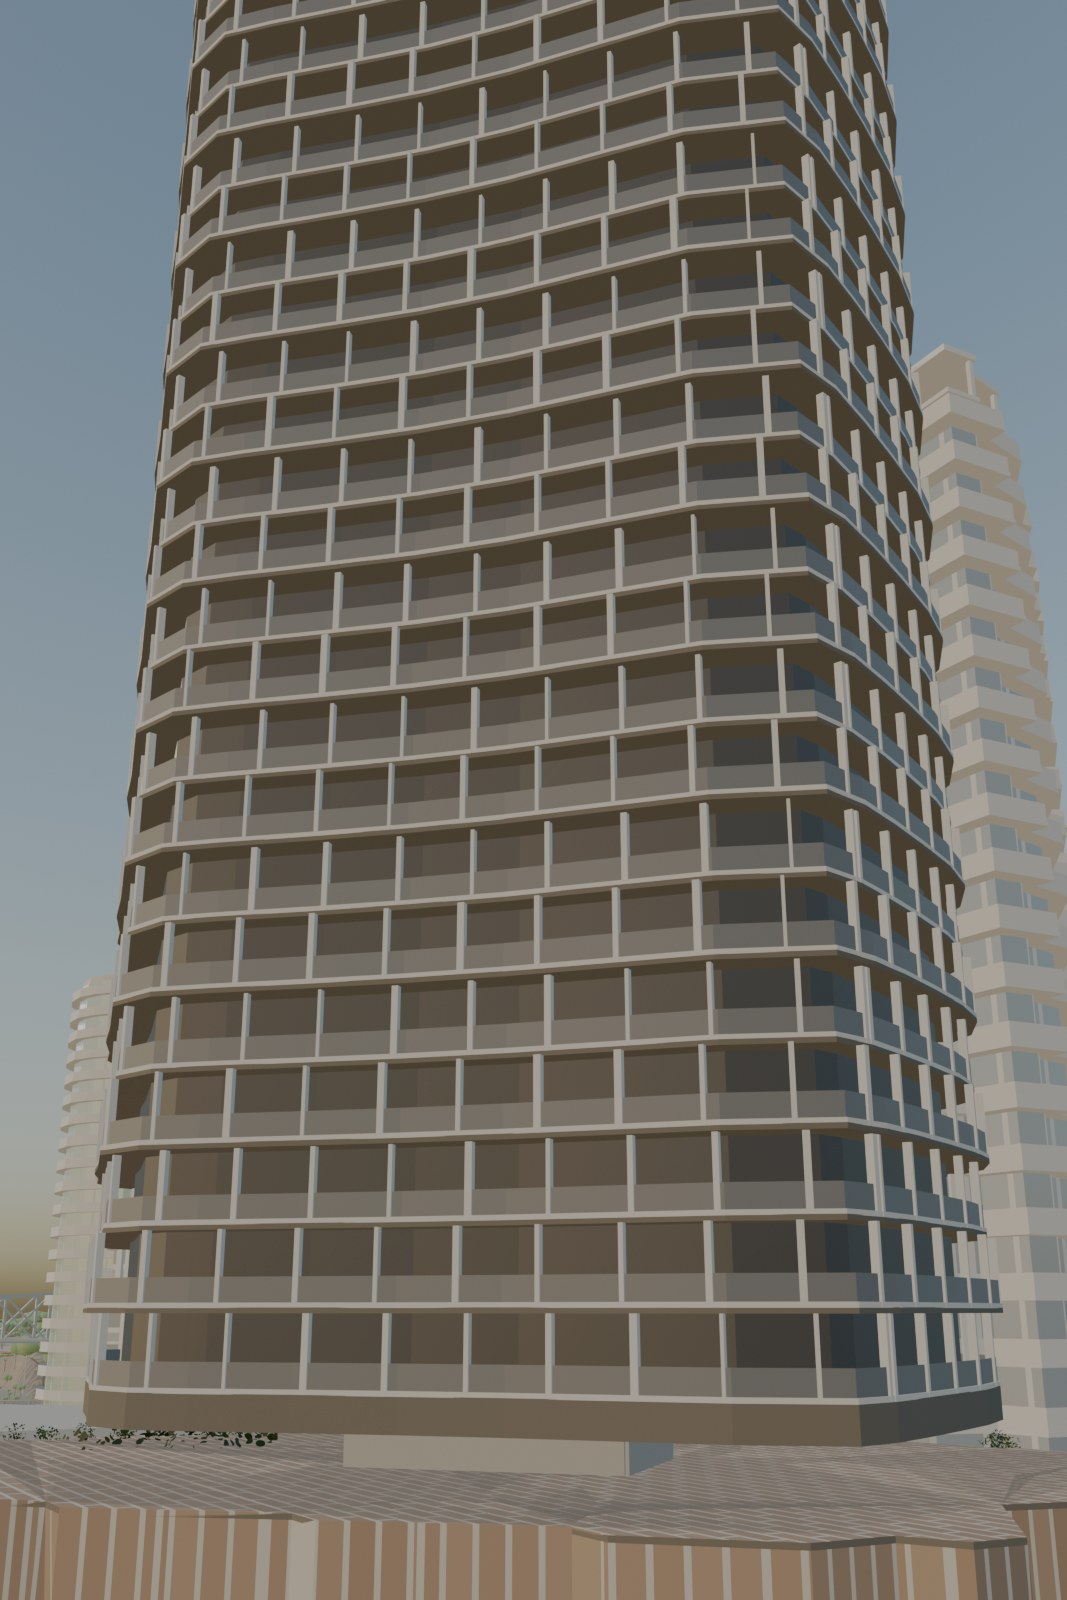
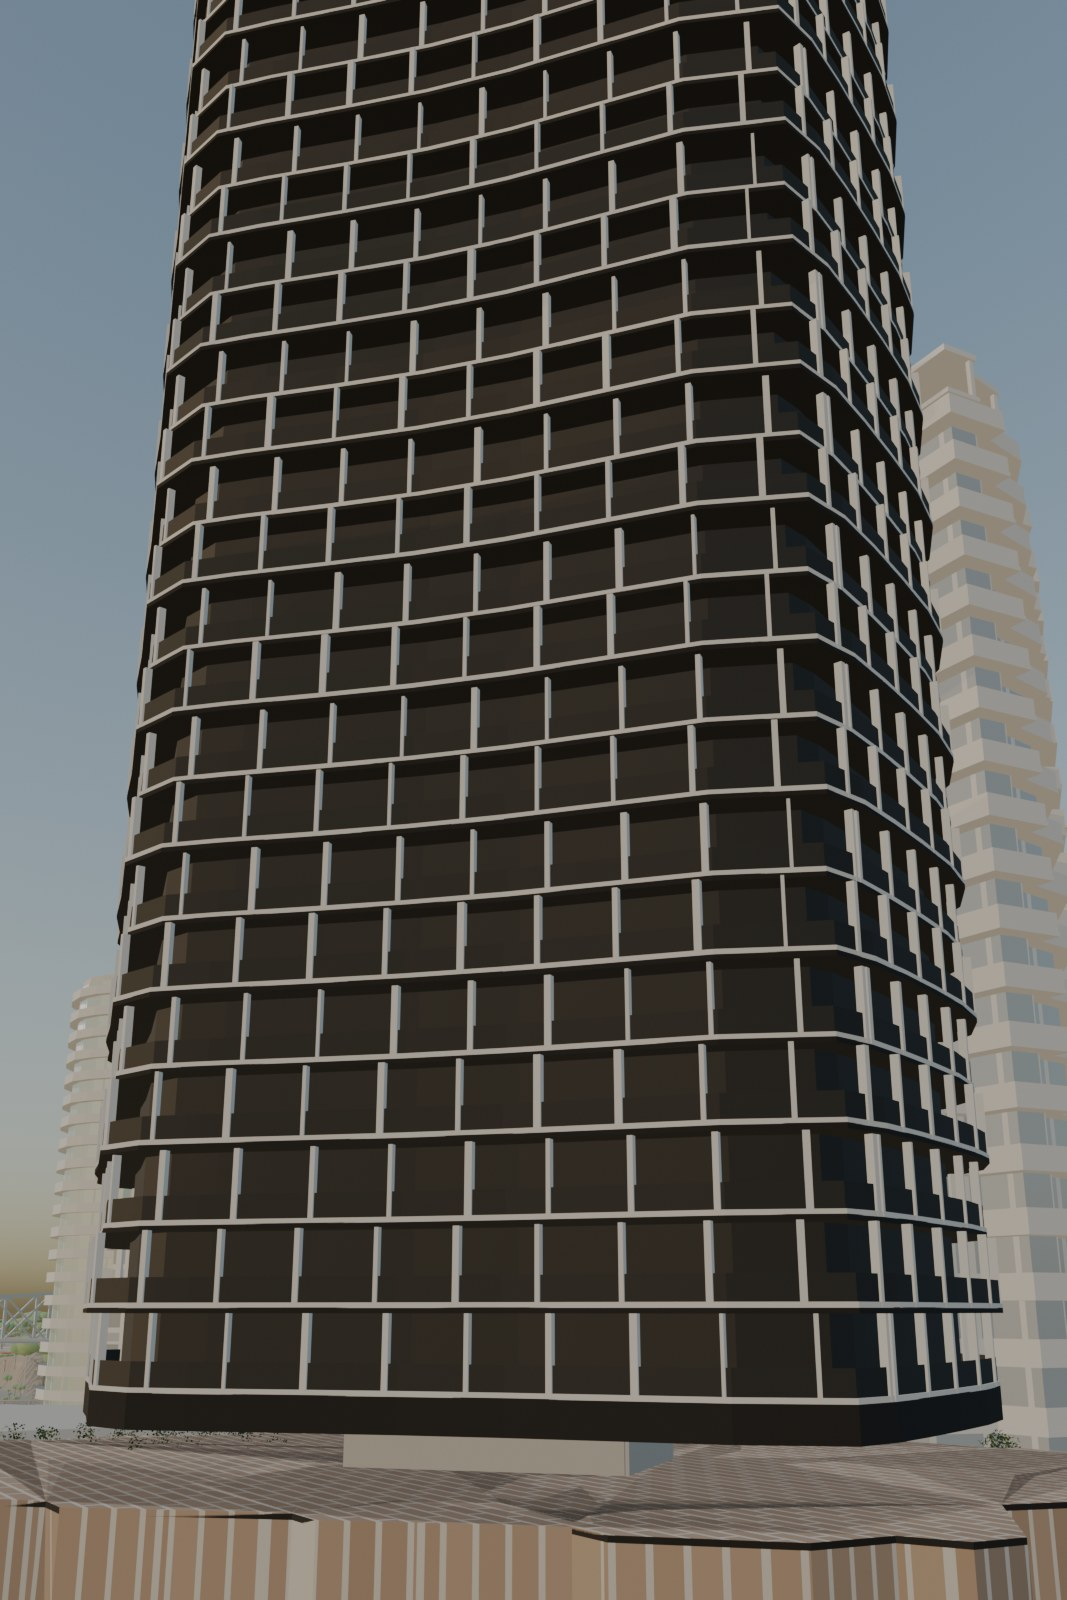
Spire step 7g: cathedral west-front photo pair, darker Spire glass and recesses, Mantra white render, real-size dense leaf clusters, round limbs

diff --git a/tools/blender/spire/trees.py b/tools/blender/spire/trees.py
@@ -40,7 +40,21 @@ def trunk(buf, x, y, g, r, h, branches=0, spread=1.0):
     seed = int(abs(x * 13.1 + y * 7.7)) % 360
     for b in range(branches):
         a = math.radians(seed + b * 360 / max(branches, 1))
-        buf.beam((x, y, g + h * 0.9), (x + math.cos(a) * spread, y + math.sin(a) * spread, g + h + spread * 0.6), r * 0.7)
+        tube(buf, (x, y, g + h * 0.9), (x + math.cos(a) * spread, y + math.sin(a) * spread, g + h + spread * 0.6), r * 0.45, r * 0.18)
+
+
+def tube(buf, p, q, r0, r1, n=8):
+    """Round tapered limb from p (radius r0) to q (radius r1)."""
+    d = [q[i] - p[i] for i in range(3)]
+    ln = math.sqrt(sum(c * c for c in d)) or 1e-6
+    d = [c / ln for c in d]
+    up = (0, 0, 1) if abs(d[2]) < 0.9 else (1, 0, 0)
+    s = [d[1] * up[2] - d[2] * up[1], d[2] * up[0] - d[0] * up[2], d[0] * up[1] - d[1] * up[0]]
+    sl = math.sqrt(sum(c * c for c in s))
+    s = [c / sl for c in s]
+    u = [s[1] * d[2] - s[2] * d[1], s[2] * d[0] - s[0] * d[2], s[0] * d[1] - s[1] * d[0]]
+    ring = lambda c, r: [tuple(c[i] + r * (math.cos(2 * math.pi * k / n) * s[i] + math.sin(2 * math.pi * k / n) * u[i]) for i in range(3)) for k in range(n)]
+    buf.add(ring(p, r0) + ring(q, r1), [[k, (k + 1) % n, n + (k + 1) % n, n + k] for k in range(n)])
 
 
 def crown(buf, x, y, zc, r, flat, lobes=5):
@@ -78,7 +92,7 @@ def species(x, y, h):
     return "generic"
 
 
-HERO_CENTRES = [(0.0, 0.0, 330.0), (-80.0, -100.0, 160.0)]   # leaf-card trees round Spire and the cathedral
+HERO_CENTRES = [(0.0, 0.0, 220.0), (-80.0, -100.0, 140.0)]   # leaf-card trees round Spire and the cathedral
 SPECIES_LEAF = {   # leaf colour pairs (dark, light) and trunk colour
     "fig": ((0.035, 0.09, 0.03), (0.09, 0.19, 0.06), (0.30, 0.27, 0.22)),
     "poinciana": ((0.07, 0.15, 0.04), (0.16, 0.28, 0.07), (0.28, 0.24, 0.20)),
@@ -136,7 +150,7 @@ def build():
             trunk(trunks, x, y, g + h * 0.4, 0.4, 0.1, 6, r * 0.6)
             cz = g + h - rz
             if near:
-                leaves["fig"].cloud((x, y, cz), (r, r, rz), int(150 + 6 * r * r), 1.5, shell=0.65, top_bias=0.3)
+                leaves["fig"].cloud((x, y, cz), (r, r, rz), int(5 * (150 + 6 * r * r)), 0.42, shell=0.35, top_bias=0.3)
             else:
                 crown(crowns, x, y, cz, r, 0.5, 6)
         elif s in ("jacaranda", "poinciana"):
@@ -144,8 +158,8 @@ def build():
             trunk(trunks, x, y, g, 0.25, h * 0.6, 4, r * 0.55)
             cz = g + h - rz
             if near:
-                leaves[s].cloud((x, y, cz), (r, r, rz), int(120 + 5 * r * r), 1.1, shell=0.75, top_bias=0.5)
-                blooms[s].cloud((x, y, cz + rz * 0.4), (r * 0.9, r * 0.9, rz * 0.6), int(25 + r * r), 0.8, shell=0.8, top_bias=0.8)
+                leaves[s].cloud((x, y, cz), (r, r, rz), int(6 * (120 + 5 * r * r)), 0.3, shell=0.55, top_bias=0.5)
+                blooms[s].cloud((x, y, cz + rz * 0.4), (r * 0.9, r * 0.9, rz * 0.6), int(5 * (25 + r * r)), 0.28, shell=0.8, top_bias=0.8)
             else:
                 crown(crowns, x, y, cz, r, 0.3, 5)
                 if s == "poinciana":
@@ -157,14 +171,14 @@ def build():
                 for k in range(4):                                          # open, clumpy crown
                     a = k * 1.7
                     leaves["eucalypt"].cloud((x + math.cos(a) * r * 0.6, y + math.sin(a) * r * 0.6, g + h - r * (0.6 + 0.3 * k % 2)),
-                                             (r * 0.5, r * 0.5, r * 0.4), 40, 0.9, shell=0.5)
+                                             (r * 0.5, r * 0.5, r * 0.4), 220, 0.32, shell=0.35)
             else:
                 crown(crowns, x + 0.3 * r, y, g + h - r, r, 0.9, 3)
         else:
             r = max(1.0, 0.26 * h)
             trunk(trunks, x, y, g, 0.18, max(0.5, h - 1.6 * r), 3, r * 0.5)
             if near:
-                leaves["generic"].cloud((x, y, g + h - r), (r, r, r * 0.85), int(70 + 8 * r * r), 0.9, shell=0.6, top_bias=0.2)
+                leaves["generic"].cloud((x, y, g + h - r), (r, r, r * 0.85), int(5 * (70 + 8 * r * r)), 0.32, shell=0.4, top_bias=0.2)
             else:
                 crown(crowns, x, y, g + h - r, r, 0.85, 4)
     objs = []

diff --git a/tools/blender/spire/common.py b/tools/blender/spire/common.py
@@ -49,10 +49,10 @@ COLOURS = {
     "rock": (0.52, 0.47, 0.42, 1),           # Kangaroo Point tuff: grey-brown
     "timber": (0.60, 0.48, 0.35, 1),
     "corten": (0.62, 0.32, 0.18, 1),
-    "spire_glass": (0.07, 0.075, 0.085, 1),    # dark glass (#2a2d31 in sRGB; linear here) / recessed balconies (photo sheet)
+    "spire_glass": (0.018, 0.020, 0.023, 1),    # dark glass (#2a2d31 in sRGB; linear here) / recessed balconies (photo sheet)
     "spire_frame": (0.91, 0.90, 0.88, 1),
-    "spire_soffit": (0.20, 0.19, 0.17, 1),     # recessed balcony soffits / walls, read dark-warm at distance      # #e8e6e0 white frame lattice and slab edges
-    "spire_balustrade": (0.20, 0.22, 0.25, 1),
+    "spire_soffit": (0.016, 0.017, 0.019, 1),  # step 7g: charcoal recesses (#1f2226), photo pair     # recessed balcony soffits / walls, read dark-warm at distance      # #e8e6e0 white frame lattice and slab edges
+    "spire_balustrade": (0.022, 0.025, 0.028, 1),
     "balustrade": (0.70, 0.80, 0.85, 1),
     "line": (0.89, 0.89, 0.86, 1),          # #f2f2ee          # road markings
     "line_yellow": (0.95, 0.80, 0.20, 1),

diff --git a/tools/blender/spire/looks.py b/tools/blender/spire/looks.py
@@ -42,8 +42,8 @@ LOOKS = {
     26253098: {"name": "Willahra Tower", "src": SHEET, "shader": "glass", "wall": hx("f2f1ec"), "glass": hx("6f8496"),
                "roof": hx("e6e5e0"), "pattern": "balcony", "band": hx("f4f3ee"), "balcony": "white_solid",
                "accent": hx("b8402e")},
-    568836537: {"name": "Mantra on Queen", "src": SHEET, "shader": "render", "wall": hx("d8ccb4"), "glass": hx("3f5f62"),
-                "roof": hx("cfc3ab"), "pattern": "balcony", "band": hx("f0ede4"), "balcony": "glass",
+    568836537: {"name": "Mantra on Queen", "src": SHEET, "shader": "render", "wall": hx("efece4"), "glass": hx("22262a"),
+                "roof": hx("e4e1d8"), "pattern": "punched",
                 "accent": hx("1e8ad8"), "spike": True},   # step 7b: bright blue stripe + swoosh (photos)
     189779738: {"name": "Mantra on Queen podium", "src": SHEET, "shader": "render", "wall": hx("d8ccb4"),
                 "glass": hx("3f6f90"), "roof": hx("cfc3ab"), "pattern": "strip", "ground": hx("a8553f")},

diff --git a/tools/blender/spire/preview.py b/tools/blender/spire/preview.py
@@ -196,7 +196,7 @@ def setup_morning():
         if bsdf is None:
             continue
         bsdf.inputs["Base Color"].default_value = m.diffuse_color
-        rough = {"clay_water": 0.06, "clay_spire_glass": 0.5, "clay_spire_balustrade": 0.5, "clay_balustrade": 0.05, "clay_steel": 0.45}.get(m.name, 0.85)
+        rough = {"clay_water": 0.06, "clay_spire_glass": 0.75, "clay_spire_balustrade": 0.8, "clay_spire_soffit": 0.9, "clay_balustrade": 0.05, "clay_steel": 0.45}.get(m.name, 0.85)
         bsdf.inputs["Roughness"].default_value = rough
         if m.name == "clay_water":                       # Brisbane River: brown-green, sky reflection, small ripples
             bsdf.inputs["Base Color"].default_value = (0.13, 0.13, 0.085, 1)

diff --git a/tools/blender/spire/render_some.py b/tools/blender/spire/render_some.py
@@ -1,0 +1,18 @@
+"""Render only the named hero/street cams in the morning look (faster than the full preview pass).
+
+    blender -b --factory-startup -P tools/blender/spire/render_some.py -- street_ann_queen hero_spire_green_wall
+"""
+import os
+import sys
+
+sys.path.insert(0, os.path.dirname(os.path.abspath(__file__)))
+import layout as L  # noqa: E402
+import build_all  # noqa: E402
+import preview as P  # noqa: E402
+
+names = sys.argv[sys.argv.index("--") + 1:]
+pick = {c["id"]: c for c in L.CAMERAS + L.HERO_CAMERAS}
+build_all.build_all(None, write_meta=False)
+P.setup_morning()
+for n in names:
+    print("render", n, round(P.cam_view(pick[n], "morning"), 1), "s")

diff --git a/tools/blender/spire/photo_fit.py b/tools/blender/spire/photo_fit.py
@@ -33,6 +33,8 @@ def bridge_points():
     return {"bridge_peak_n": P(tn, nc, 80.0), "bridge_peak_s": P(ts, nc, 80.0),
             "bridge_pier_n_deck": P(tn, nc, 34.5), "bridge_pier_s_deck": P(ts, nc, 34.5),
             "bridge_anchor_s_deck": P(B["truss_t"][1], nc, 33.0),
+            "bridge_anchor_n_w": P(B["truss_t"][0], nc - hw, B["top_chord_profile"][0][1]),
+            "bridge_anchor_n_e": P(B["truss_t"][0], nc + hw, B["top_chord_profile"][0][1]),
             "bridge_portal_n_w": P(tn, nc - hw, 80.0), "bridge_portal_n_e": P(tn, nc + hw, 80.0)}
 
 
